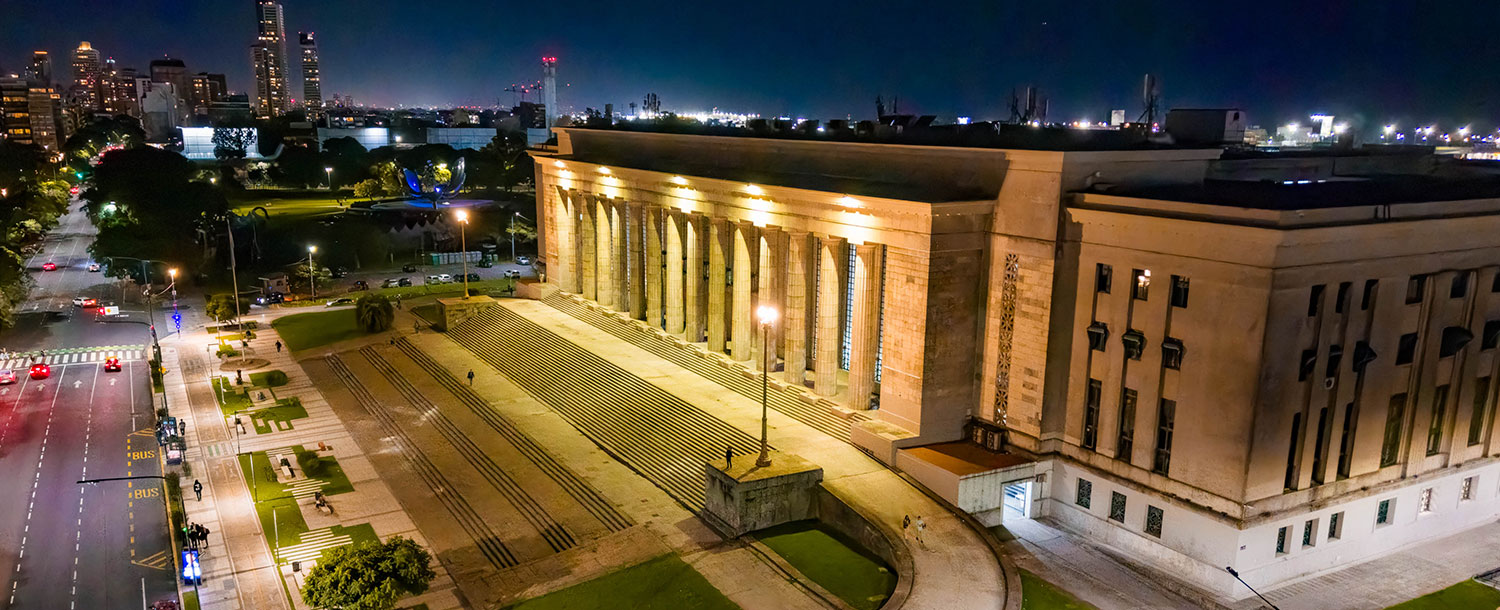
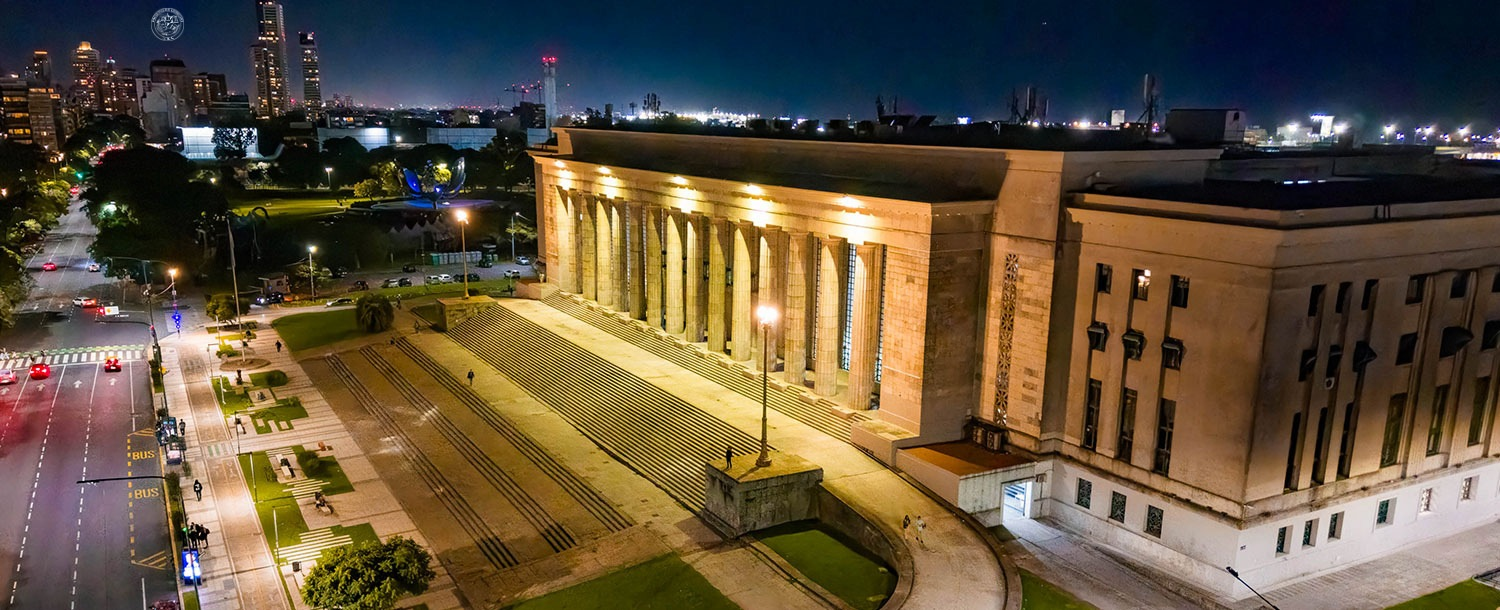
Quita cuadrado negro del hero

diff --git a/css/components.css b/css/components.css
@@ -266,42 +266,6 @@ body.nav-dark .nav-menu-toggle {
 }
 
 /* ============================================================
-   LOGO INSTITUCIONAL EN HERO
-   ============================================================ */
-
-.hero-logo-institucional {
-  position: absolute;
-  bottom: 28px;
-  right: var(--content-margin);
-  z-index: 5;
-}
-
-.hero-logo-institucional img {
-  width: 64px;
-  height: 64px;
-  object-fit: contain;
-  opacity: 0.55;
-  transition: opacity var(--transition-mid);
-  /* El logo tiene fondo negro — lo mezclamos con la foto */
-  mix-blend-mode: screen;
-}
-
-.hero-logo-institucional img:hover {
-  opacity: 0.85;
-}
-
-@media (max-width: 767px) {
-  .hero-logo-institucional {
-    bottom: 20px;
-    right: var(--content-pad-mobile);
-  }
-  .hero-logo-institucional img {
-    width: 48px;
-    height: 48px;
-  }
-}
-
-/* ============================================================
    ICONOS SOCIALES — Nav y footer
    ============================================================ */
 

diff --git a/index.html b/index.html
@@ -157,15 +157,6 @@
         <span class="hero-scroll-line"></span>
       </div>
 
-      <!-- Logo institucional — esquina inferior derecha del hero -->
-      <div class="hero-logo-institucional" aria-hidden="true">
-        <img
-          src="img/institucional/logo-footer.png"
-          alt=""
-          width="64"
-          height="64"
-          loading="eager">
-      </div>
     </section>
 
     <!-- PRESENTACIÓN -->
